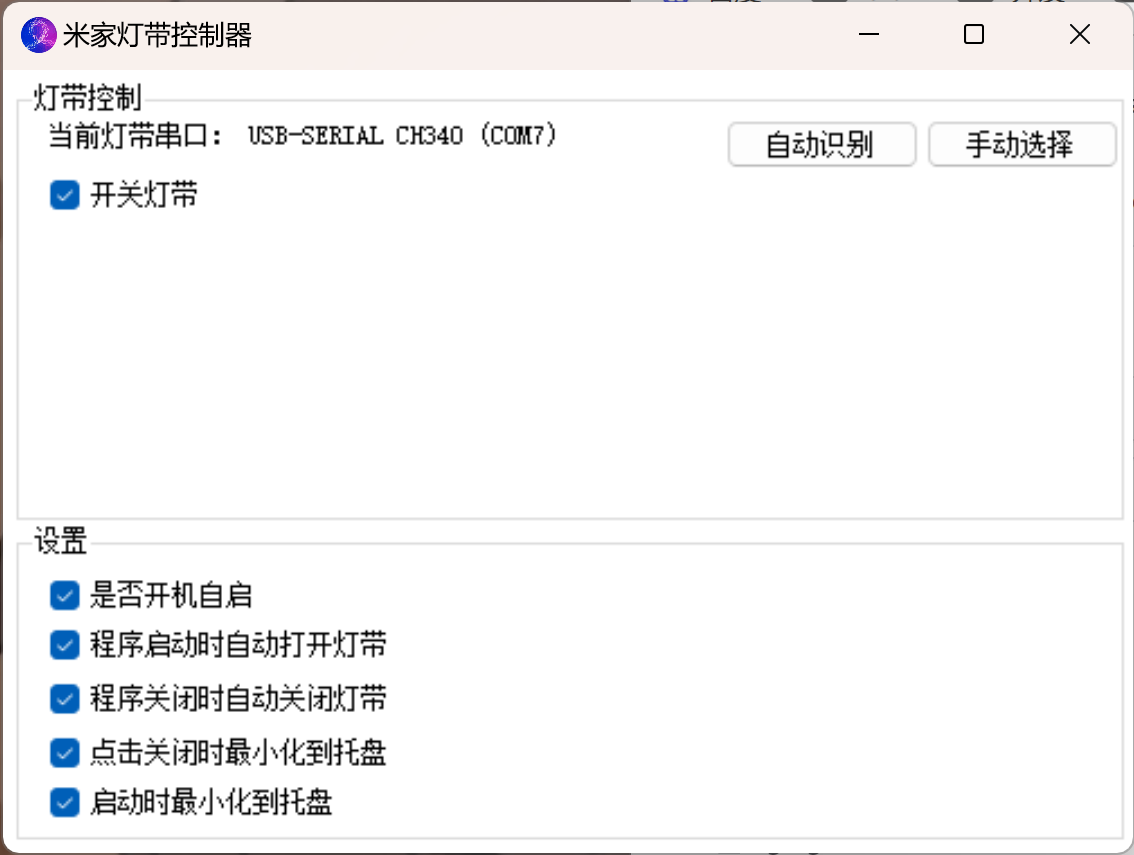
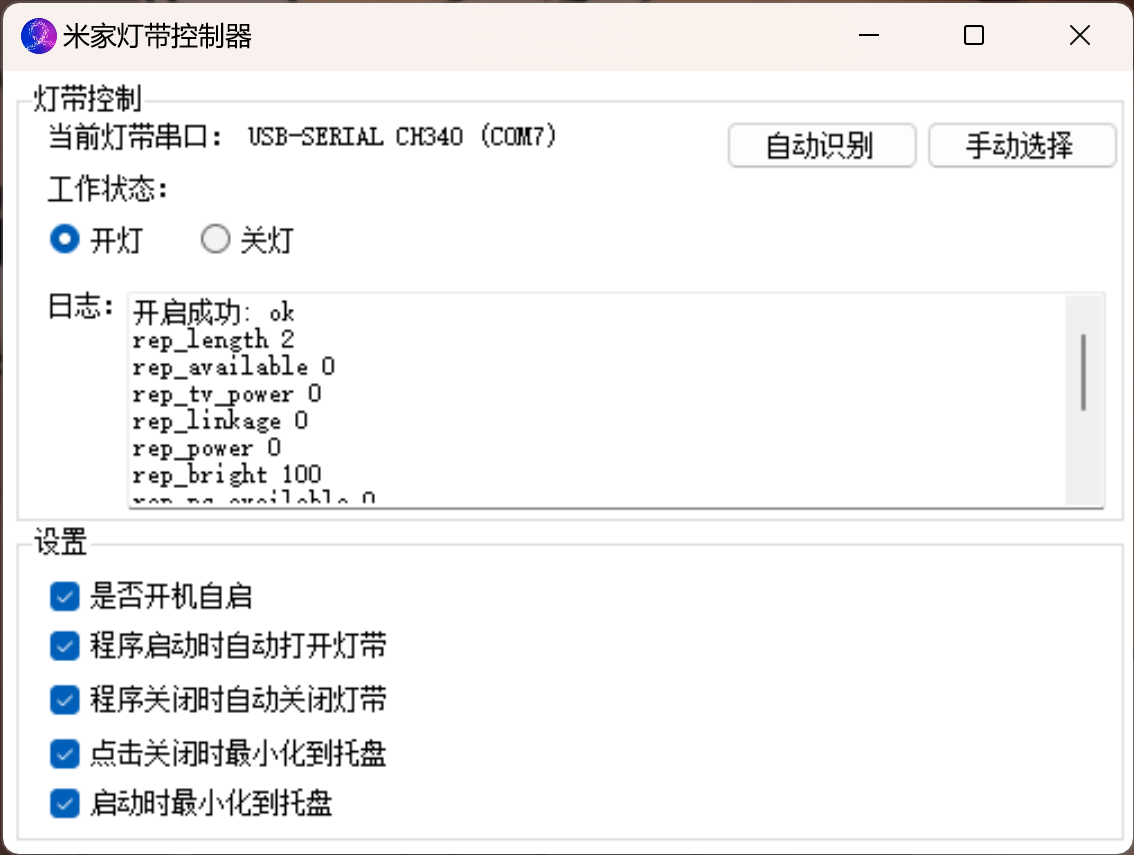
add task, add log

diff --git a/src/Com/ComObj.cs b/src/Com/ComObj.cs
@@ -1,6 +1,7 @@
 using System.IO.Ports;
 using System;
-using System.Windows.Forms;
+using System.Threading.Tasks;
+using System.Threading;
 
 namespace mi_lightstrip_controller.src.Com
 {
@@ -10,44 +11,49 @@ namespace mi_lightstrip_controller.src.Com
         public int DataBits { get; set; } = 8;
         public StopBits StopBits { get; set; } = StopBits.One;
         public Parity Parity { get; set; } = Parity.None;
+        public int RetryMilliseconds { get; set; } = 1000;
 
         public string name;
         public string description;
 
-        private SerialPort serialPort;
+        private CancellationTokenSource cts;
+        private Action<string> successAction;
+        private Action<string, int> errorAction;
+        private readonly static object lockObj = new object();
 
-        ~ComObj()
+        public string GetShowText()
         {
-            IsOpen = false;
+            return $"{description} ({name})";
         }
-
-        public bool IsOpen
+        public void SendCom(string command, Action<string> successAction, Action<string, int> errorAction)
         {
-            get { return serialPort != null ? serialPort.IsOpen : false; }
-            set 
+            if (cts != null)
             {
-                if (!value)
+                cts.Cancel();
+                cts = null;
+            }
+            this.successAction = successAction;
+            this.errorAction = errorAction;
+            cts = new CancellationTokenSource();
+            Task.Run(() => SendComTask(command, cts), cts.Token);
+        }
+        private void SendComTask(string command, CancellationTokenSource cts)
+        {
+            int errorCount = 0;
+            while (true)
+            {
+                if (cts.IsCancellationRequested)
+                    break;
+                try
                 {
-                    if (serialPort != null && serialPort.IsOpen)
+                    using (var serialPort = new SerialPort())
                     {
-                        serialPort.Close();
-                    }
-                    serialPort = null;
-                }
-                else
-                {
-                    if (serialPort == null)
-                    {
-                        serialPort = new SerialPort();
                         serialPort.PortName = name;        // 串口名称
                         serialPort.BaudRate = BaudRate;   // 波特率
                         serialPort.DataBits = DataBits;   // 数据位
                         serialPort.StopBits = StopBits;   // 停止位
                         serialPort.Parity = Parity;       // 校验位
                         serialPort.NewLine = "\r\n";
-                    }
-                    if (!serialPort.IsOpen)
-                    {
                         try
                         {
                             serialPort.Open();
@@ -56,26 +62,28 @@ namespace mi_lightstrip_controller.src.Com
                         {
                             throw new UnauthorizedAccessException("串口被占用: " + name);
                         }
+                        serialPort.WriteLine(command);
+                        Thread.Sleep(300);
+                        string response = serialPort.ReadExisting();
+                        if (string.IsNullOrEmpty(response))
+                        {
+                            throw new Exception("串口未响应");
+                        }
+                        if (successAction != null)
+                            successAction(response);
+                        break;
                     }
                 }
-            }
-        }
-        public string GetShowText()
-        {
-            return $"{description} ({name})";
-        }
-        public string SendCom(string command)
-        {
-            try
-            {
-                if (!IsOpen)
-                    IsOpen = true;
-                serialPort.WriteLine(command);
-                return null;
-            }
-            catch (Exception e)
-            {
-                return e.Message;
+                catch (Exception e)
+                {
+                    errorCount++;
+                    lock (lockObj)
+                    {
+                        if (errorAction != null)
+                            errorAction(e.Message, errorCount);
+                    }
+                }
+                Thread.Sleep(RetryMilliseconds);
             }
         }
     }

diff --git a/src/Lightstrip/LightstripConnect.cs b/src/Lightstrip/LightstripConnect.cs
@@ -12,38 +12,23 @@ namespace mi_lightstrip_controller.src.Lightstrip
         private const StopBits stopBits = StopBits.One;
         private const Parity parity = Parity.None;
 
+        private Action<bool, string> successAction;
+        private Action<string, int> errorAction;
+
         private ComObj com;
         public bool State { get; private set; }
+
         public LightstripConnect()
         {
 
         }
         public void SetCom(ComObj com)
         {
-            if (this.com != null)
-            {
-                this.com.IsOpen = false;
-            }
             this.com = com;
             this.com.BaudRate = baudRate;
             this.com.DataBits = dataBits;
             this.com.StopBits = stopBits;
             this.com.Parity = parity;
-            try
-            {
-                this.com.IsOpen = true;
-            }
-            catch (Exception e)
-            {
-                MessageBox.Show(e.Message, "错误", MessageBoxButtons.OK);
-            }
-        }
-        public void Close()
-        {
-            if (com != null)
-            {
-                com.IsOpen = false;
-            }
         }
         private bool Check(bool isShowError = true)
         {
@@ -55,37 +40,26 @@ namespace mi_lightstrip_controller.src.Lightstrip
                 }
                 return false;
             }
-            if (!com.IsOpen)
-            {
-                try
-                {
-                    com.IsOpen = true;
-                }
-                catch (Exception e)
-                {
-                    MessageBox.Show(e.Message, "错误", MessageBoxButtons.OK);
-                    return false;
-                }
-            }
             return true;
+        }
+        public void SetCallback(Action<bool, string> successAction, Action<string, int> errorAction)
+        {
+            this.successAction = successAction;
+            this.errorAction = errorAction;
         }
         public void OpenLightStrip(bool isOpen, bool isShowError = true)
         {
             if (!Check(isShowError)) return;
             try
             {
-                string error = com.SendCom("set_power " + (isOpen ? "1" : "0"));
-                if (!string.IsNullOrEmpty(error))
-                {
-                    throw new Exception(error);
-                }
+                com.SendCom("set_power " + (isOpen ? "1" : "0"), (res) => successAction?.Invoke(isOpen, res), errorAction);
                 State = isOpen;
             }
             catch (Exception e)
             {
                 if (isShowError)
                 {
-                    MessageBox.Show((State ? "开启" : "关闭") + "灯带失败: " + e.Message, "提示", MessageBoxButtons.OK);
+                    MessageBox.Show((isOpen ? "开启" : "关闭") + "灯带失败: " + e.Message, "提示", MessageBoxButtons.OK);
                 }
             }
         }

diff --git a/src/Window/MainWindow.cs b/src/Window/MainWindow.cs
@@ -62,6 +62,7 @@ namespace mi_lightstrip_controller
             Setting.Instance.Com = com.name;
             currentComText.Text = com.GetShowText();
             connect.SetCom(com);
+            connect.SetCallback(OpenLightStripSuccess, OpenLightStripError);
         }
         private ComObj AutoSelectCom()
         {
@@ -87,6 +88,7 @@ namespace mi_lightstrip_controller
             if (connect.State != openBtn.Checked)
             {
                 connect.OpenLightStrip(openBtn.Checked);
+                UpdateState();
             }
         }
         private void CloseBtn_CheckedChanged(object sender, EventArgs e)
@@ -198,10 +200,6 @@ namespace mi_lightstrip_controller
                 if (connect != null)
                     connect.OpenLightStrip(false, false);
             }
-            if (connect != null)
-            {
-                connect.Close();
-            }
         }
         protected override void WndProc(ref Message m)
         {
@@ -210,6 +208,38 @@ namespace mi_lightstrip_controller
                 AutoClose();
             }
             base.WndProc(ref m);
+        }
+        private void OpenLightStripError(string error, int reNumber)
+        {
+            if (InvokeRequired)
+            {
+                // 如果不在UI线程上，通过委托在UI线程上执行
+                try
+                {
+                    Invoke(new Action(() => OpenLightStripError(error, reNumber)));
+                }
+                catch { }
+            }
+            else
+            {
+                logText.Text = error + ", 重试: " + reNumber;
+            }
+        }
+        private void OpenLightStripSuccess(bool isOpen, string response)
+        {
+            if (InvokeRequired)
+            {
+                // 如果不在UI线程上，通过委托在UI线程上执行
+                try
+                {
+                    Invoke(new Action(() => OpenLightStripSuccess(isOpen, response)));
+                }
+                catch { }
+            }
+            else
+            {
+                logText.Text = (isOpen ? "开启成功: " : "关闭成功: ") + response;
+            }
         }
     }
 }

diff --git a/src/Window/MainWindow.Designer.cs b/src/Window/MainWindow.Designer.cs
@@ -49,6 +49,8 @@
             this.开启灯带ToolStripMenuItem = new System.Windows.Forms.ToolStripMenuItem();
             this.关闭灯带ToolStripMenuItem = new System.Windows.Forms.ToolStripMenuItem();
             this.退出程序ToolStripMenuItem = new System.Windows.Forms.ToolStripMenuItem();
+            this.label3 = new System.Windows.Forms.Label();
+            this.logText = new System.Windows.Forms.TextBox();
             this.comGroup.SuspendLayout();
             this.groupBox1.SuspendLayout();
             this.mainContextMenuStrip.SuspendLayout();
@@ -59,6 +61,8 @@
             this.comGroup.Anchor = ((System.Windows.Forms.AnchorStyles)((((System.Windows.Forms.AnchorStyles.Top | System.Windows.Forms.AnchorStyles.Bottom) 
             | System.Windows.Forms.AnchorStyles.Left) 
             | System.Windows.Forms.AnchorStyles.Right)));
+            this.comGroup.Controls.Add(this.logText);
+            this.comGroup.Controls.Add(this.label3);
             this.comGroup.Controls.Add(this.closeBtn);
             this.comGroup.Controls.Add(this.openBtn);
             this.comGroup.Controls.Add(this.label1);
@@ -255,6 +259,27 @@
             this.退出程序ToolStripMenuItem.Text = "退出程序";
             this.退出程序ToolStripMenuItem.Click += new System.EventHandler(this.QuitProgramToolStripMenuItem_Click);
             // 
+            // label3
+            // 
+            this.label3.AutoSize = true;
+            this.label3.Location = new System.Drawing.Point(29, 206);
+            this.label3.Name = "label3";
+            this.label3.Size = new System.Drawing.Size(93, 27);
+            this.label3.TabIndex = 10;
+            this.label3.Text = "日志：";
+            // 
+            // logText
+            // 
+            this.logText.Anchor = ((System.Windows.Forms.AnchorStyles)((((System.Windows.Forms.AnchorStyles.Top | System.Windows.Forms.AnchorStyles.Bottom) 
+            | System.Windows.Forms.AnchorStyles.Left) 
+            | System.Windows.Forms.AnchorStyles.Right)));
+            this.logText.Location = new System.Drawing.Point(115, 206);
+            this.logText.Multiline = true;
+            this.logText.Name = "logText";
+            this.logText.ScrollBars = System.Windows.Forms.ScrollBars.Vertical;
+            this.logText.Size = new System.Drawing.Size(1009, 213);
+            this.logText.TabIndex = 11;
+            // 
             // MainWindow
             // 
             this.AutoScaleDimensions = new System.Drawing.SizeF(14F, 27F);
@@ -297,6 +322,8 @@
         private System.Windows.Forms.Label label1;
         private System.Windows.Forms.RadioButton closeBtn;
         private System.Windows.Forms.RadioButton openBtn;
+        private System.Windows.Forms.Label label3;
+        private System.Windows.Forms.TextBox logText;
     }
 }
 

diff --git a/Properties/AssemblyInfo.cs b/Properties/AssemblyInfo.cs
@@ -32,5 +32,5 @@ using System.Runtime.InteropServices;
 //可以指定所有这些值，也可以使用“生成号”和“修订号”的默认值
 //通过使用 "*"，如下所示:
 // [assembly: AssemblyVersion("1.0.*")]
-[assembly: AssemblyVersion("0.4.0.0")]
-[assembly: AssemblyFileVersion("0.4.0.0")]
+[assembly: AssemblyVersion("1.0.0.0")]
+[assembly: AssemblyFileVersion("1.0.0.0")]

diff --git a/src/Com/ComUtility.cs b/src/Com/ComUtility.cs
@@ -64,6 +64,10 @@ namespace mi_lightstrip_controller.src.Com
                     {
                         if (hardInfo.Properties["Name"].Value != null && hardInfo.Properties["Name"].Value.ToString().Contains("(COM"))
                         {
+                            foreach (var item in hardInfo.Properties)
+                            {
+                                Console.WriteLine(item.Name + " " + item.Value);
+                            }
                             var strComName = hardInfo.Properties["Name"].Value.ToString();
                             var description = hardInfo.Properties["Description"].Value != null? hardInfo.Properties["Description"].Value.ToString() : "";
 